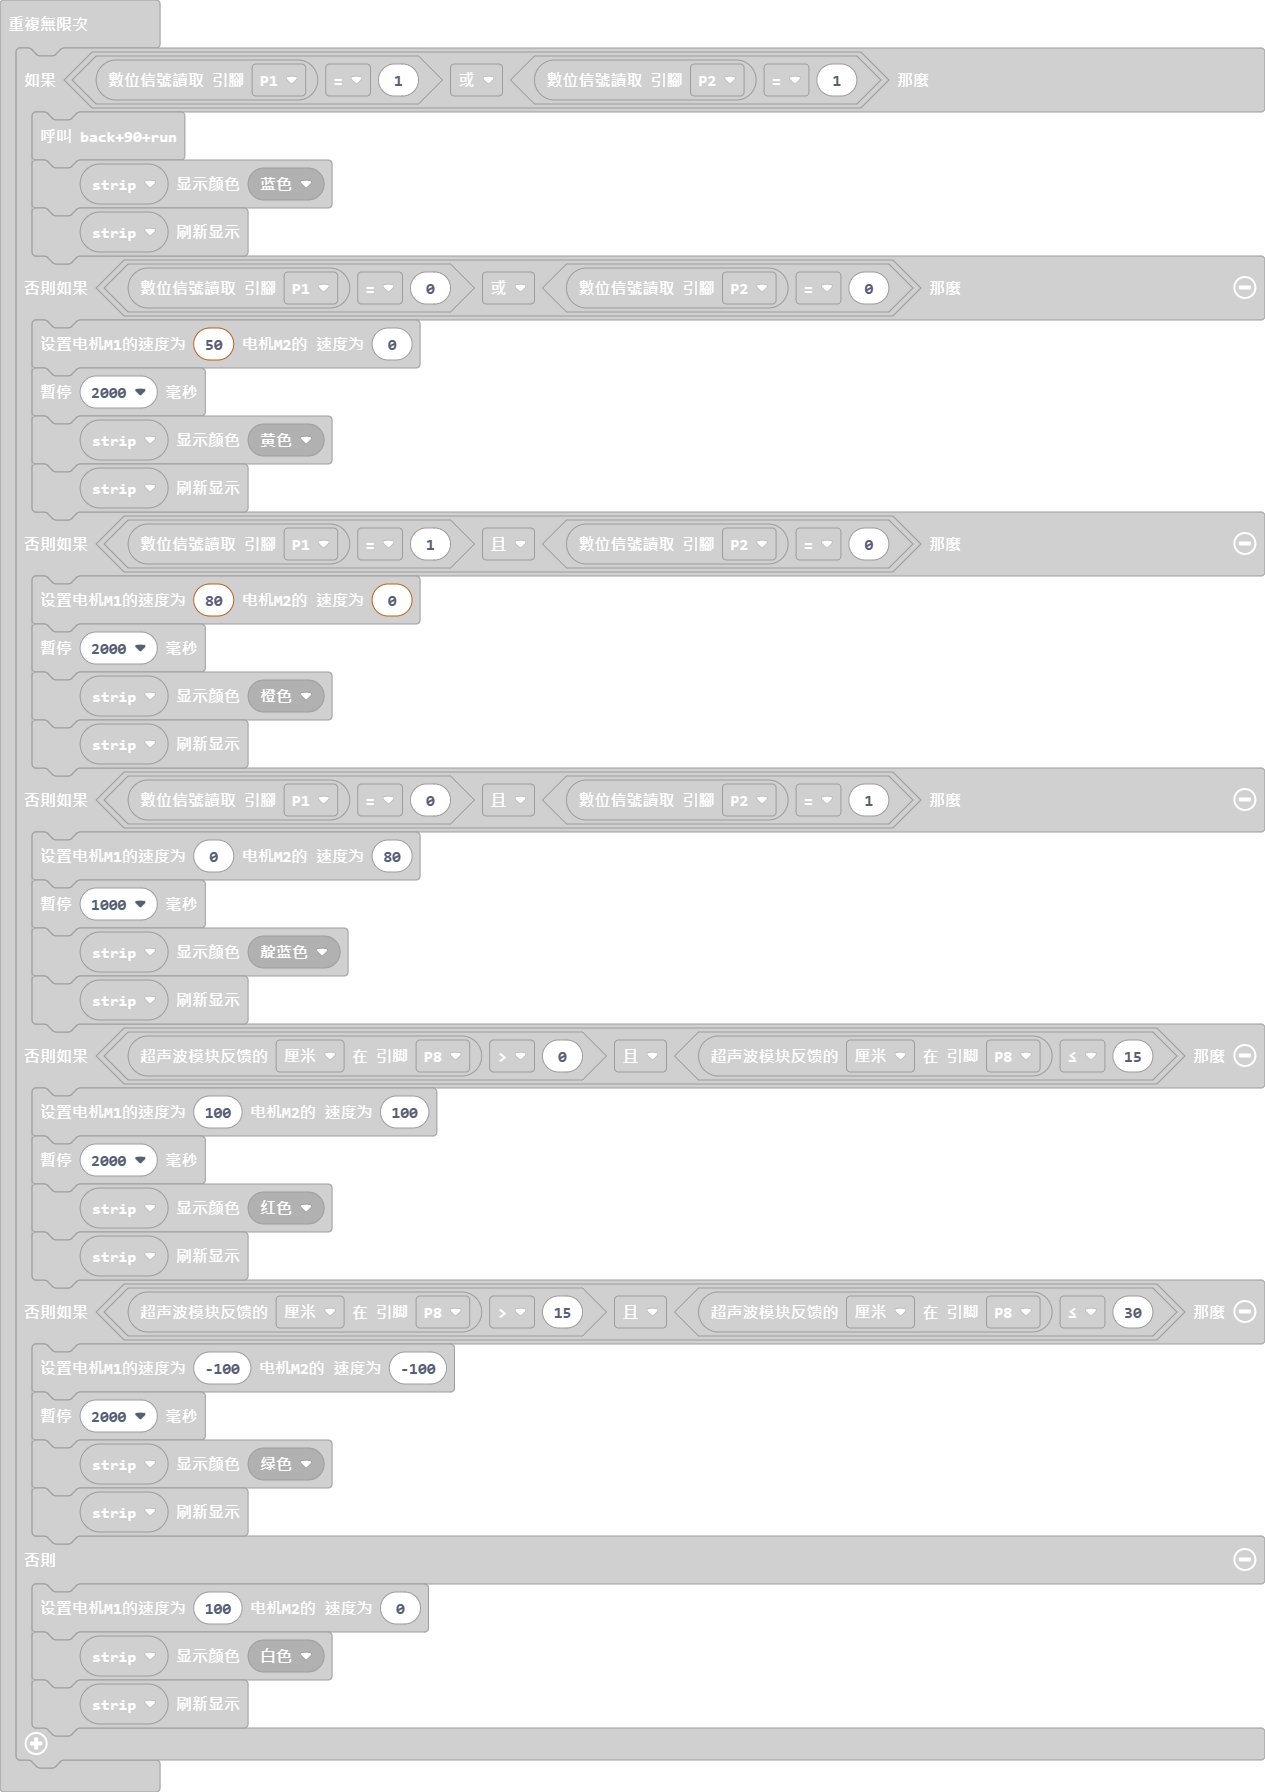
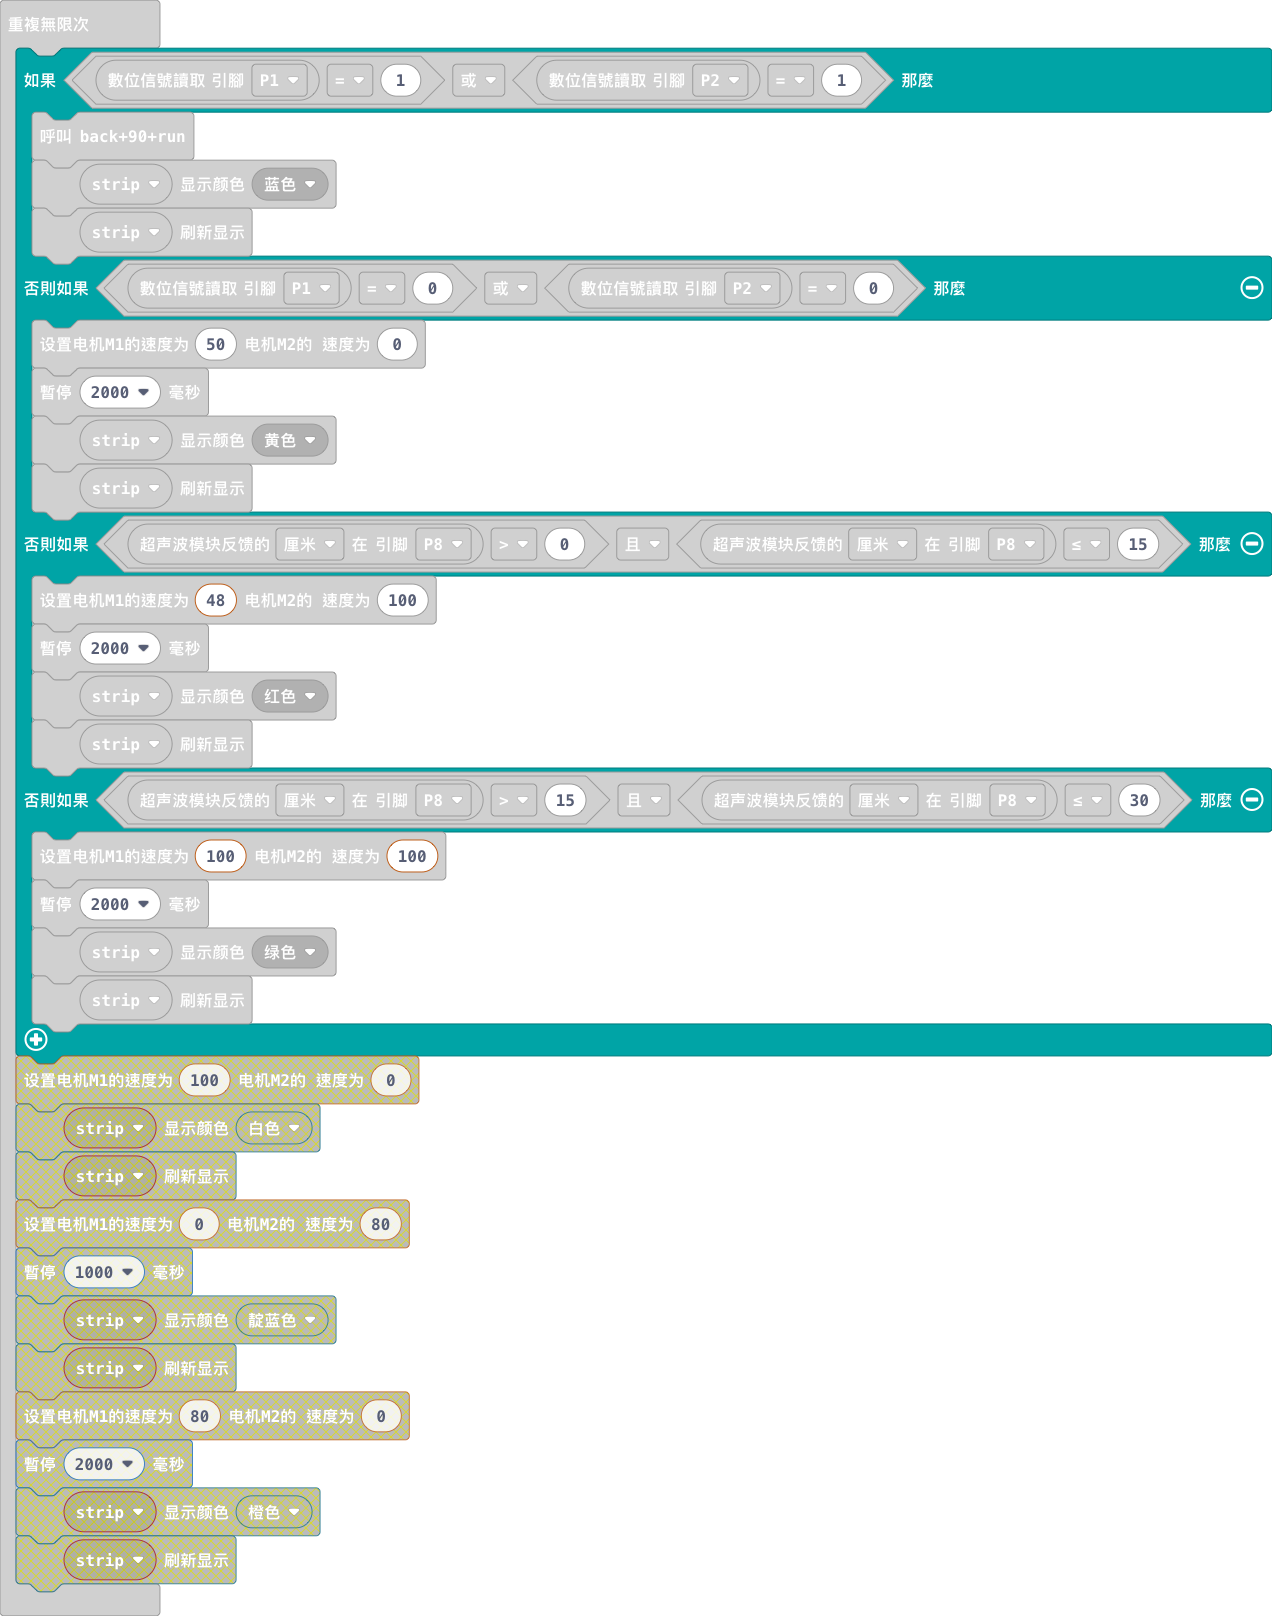
更新 main.blocks, main.ts

diff --git a/main.ts b/main.ts
@@ -19,29 +19,15 @@ basic.forever(function () {
         basic.pause(2000)
         strip.showColor(neopixel.colors(NeoPixelColors.Yellow))
         strip.show()
-    } else if (pins.digitalReadPin(DigitalPin.P1) == 1 && pins.digitalReadPin(DigitalPin.P2) == 0) {
-        wuKong.setAllMotor(80, 0)
-        basic.pause(2000)
-        strip.showColor(neopixel.colors(NeoPixelColors.Orange))
-        strip.show()
-    } else if (pins.digitalReadPin(DigitalPin.P1) == 0 && pins.digitalReadPin(DigitalPin.P2) == 1) {
-        wuKong.setAllMotor(0, 80)
-        basic.pause(1000)
-        strip.showColor(neopixel.colors(NeoPixelColors.Indigo))
-        strip.show()
     } else if (sonarbit.sonarbit_distance(Distance_Unit.Distance_Unit_cm, DigitalPin.P8) > 0 && sonarbit.sonarbit_distance(Distance_Unit.Distance_Unit_cm, DigitalPin.P8) <= 15) {
-        wuKong.setAllMotor(100, 100)
+        wuKong.setAllMotor(48, 100)
         basic.pause(2000)
         strip.showColor(neopixel.colors(NeoPixelColors.Red))
         strip.show()
     } else if (sonarbit.sonarbit_distance(Distance_Unit.Distance_Unit_cm, DigitalPin.P8) > 15 && sonarbit.sonarbit_distance(Distance_Unit.Distance_Unit_cm, DigitalPin.P8) <= 30) {
-        wuKong.setAllMotor(-100, -100)
+        wuKong.setAllMotor(100, 100)
         basic.pause(2000)
         strip.showColor(neopixel.colors(NeoPixelColors.Green))
-        strip.show()
-    } else {
-        wuKong.setAllMotor(100, 0)
-        strip.showColor(neopixel.colors(NeoPixelColors.White))
         strip.show()
     }
 })
